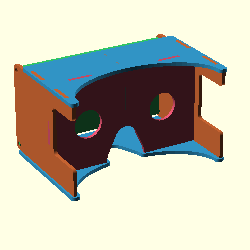
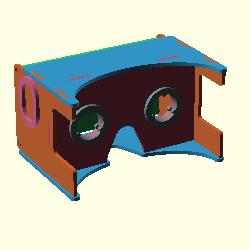
Added magnet guide and lens retention clips

Changed region(s): [[0.56, 0.336, 0.728, 0.532], [0.252, 0.392, 0.448, 0.588], [0.056, 0.308, 0.168, 0.532]]

diff --git a/README.md b/README.md
@@ -19,6 +19,4 @@ Notable differences to the original Cardboard
 To Do
 -----
 
--  Add "select" magnet
--  Add retention clips for lens
 -  Add configurable cutout for USB/audio connectors
